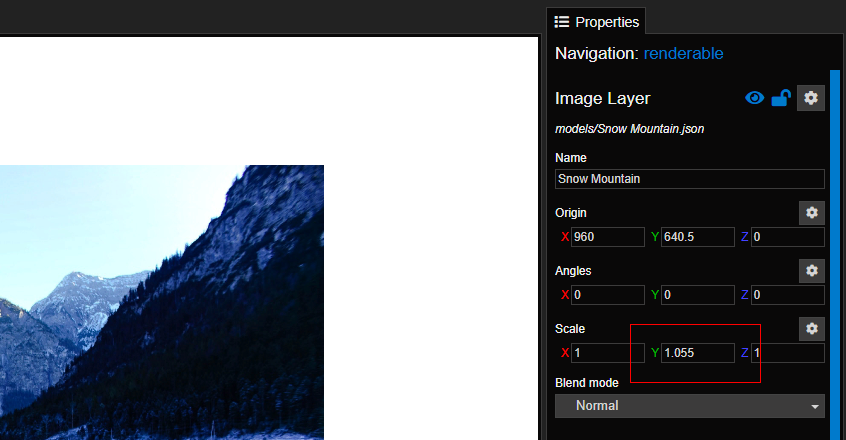
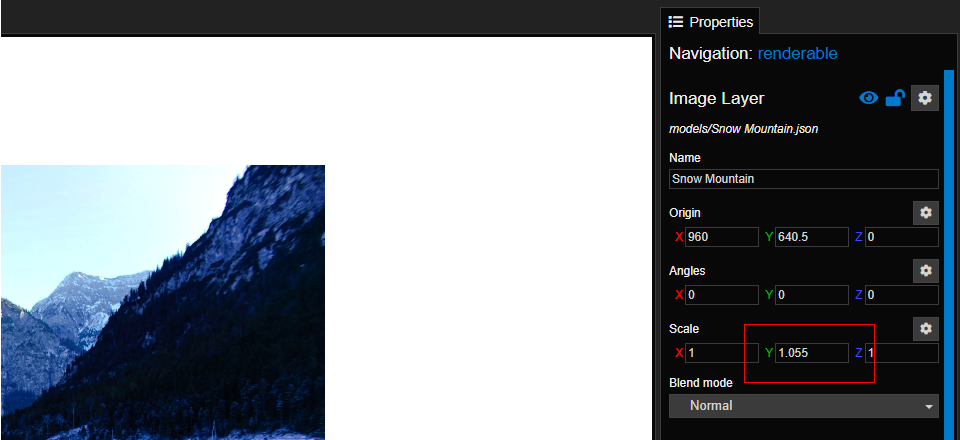
- Updated perf images to scale better.

diff --git a/docs/en/scene/performance/texture.md b/docs/en/scene/performance/texture.md
@@ -14,7 +14,7 @@ The stats will then be displayed in the scene window with Active texture memory 
 
 ## Optimize Texture Format
 
-Graphics cards do not support rendering of common image formats like JPEG and PNG. In video memory, these images are decompressed. However, different compression methods called DXT 5 and DXT 1 can be displayed by a graphics card and will occupy a quarter of memory compared to the decompressed image.
+Graphics cards do not support rendering of common image formats like JPEG and PNG. In video memory, these images are decompressed. However, different compression methods called DXT 5 and DXT 1 can be displayed by a graphics card and will occupy a quarter or less of memory compared to the decompressed image.
 
 ::: tip
 The compressed formats DXT 5 and DXT 1 require an image to use a resolution that is a power of two. Wallpaper Engine will handle this for you and it will add invisible padding - but of course this increases the memory size again! So to optimize your images effectively, you should also resize them to fit into a power of two resolution. See the next paragraph for details.
@@ -32,9 +32,9 @@ Compressed textures need to have a resolution of a power of two to be displayed 
 
 In this example a normal 1920 x 1080 image was imported. It has to be padded to a resolution of 2048 x 2048, because that's the next power of two. As you can see, there are a ton of black pixels in the example, half of the memory used is practically wasted.
 
-![Texture Padding](/img/performance/Power_of_two_padding.jpg)
+![Texture Padding](/img/performance/Power_of_two_padding.png)
 
-You should consider reducing the height of the image to 1024, then Wallpaper Engine can create a 2048 x 1024 texture instead, that's only half the memory that was needed before. Of course this means that your actual image has a smaller resolution as well, so you need to decide if and how this trade-off works for you. You can simply scale the layer in Wallpaper Engine to correct for this reduction in size by 1.055 (which is 1080 / 1024):
+You should consider reducing the height of the image to 1024, then Wallpaper Engine can create a 2048 x 1024 texture instead, that's only half the memory that was needed before. Of course this means that your actual image has a smaller resolution as well, so you need to decide if and how this trade-off works for you. You can scale the layer in Wallpaper Engine to correct for this reduction in size by 1.055 (which is 1080 / 1024):
 
 ![Texture Padding](/img/performance/Fix_optimized_scale.png)
 
